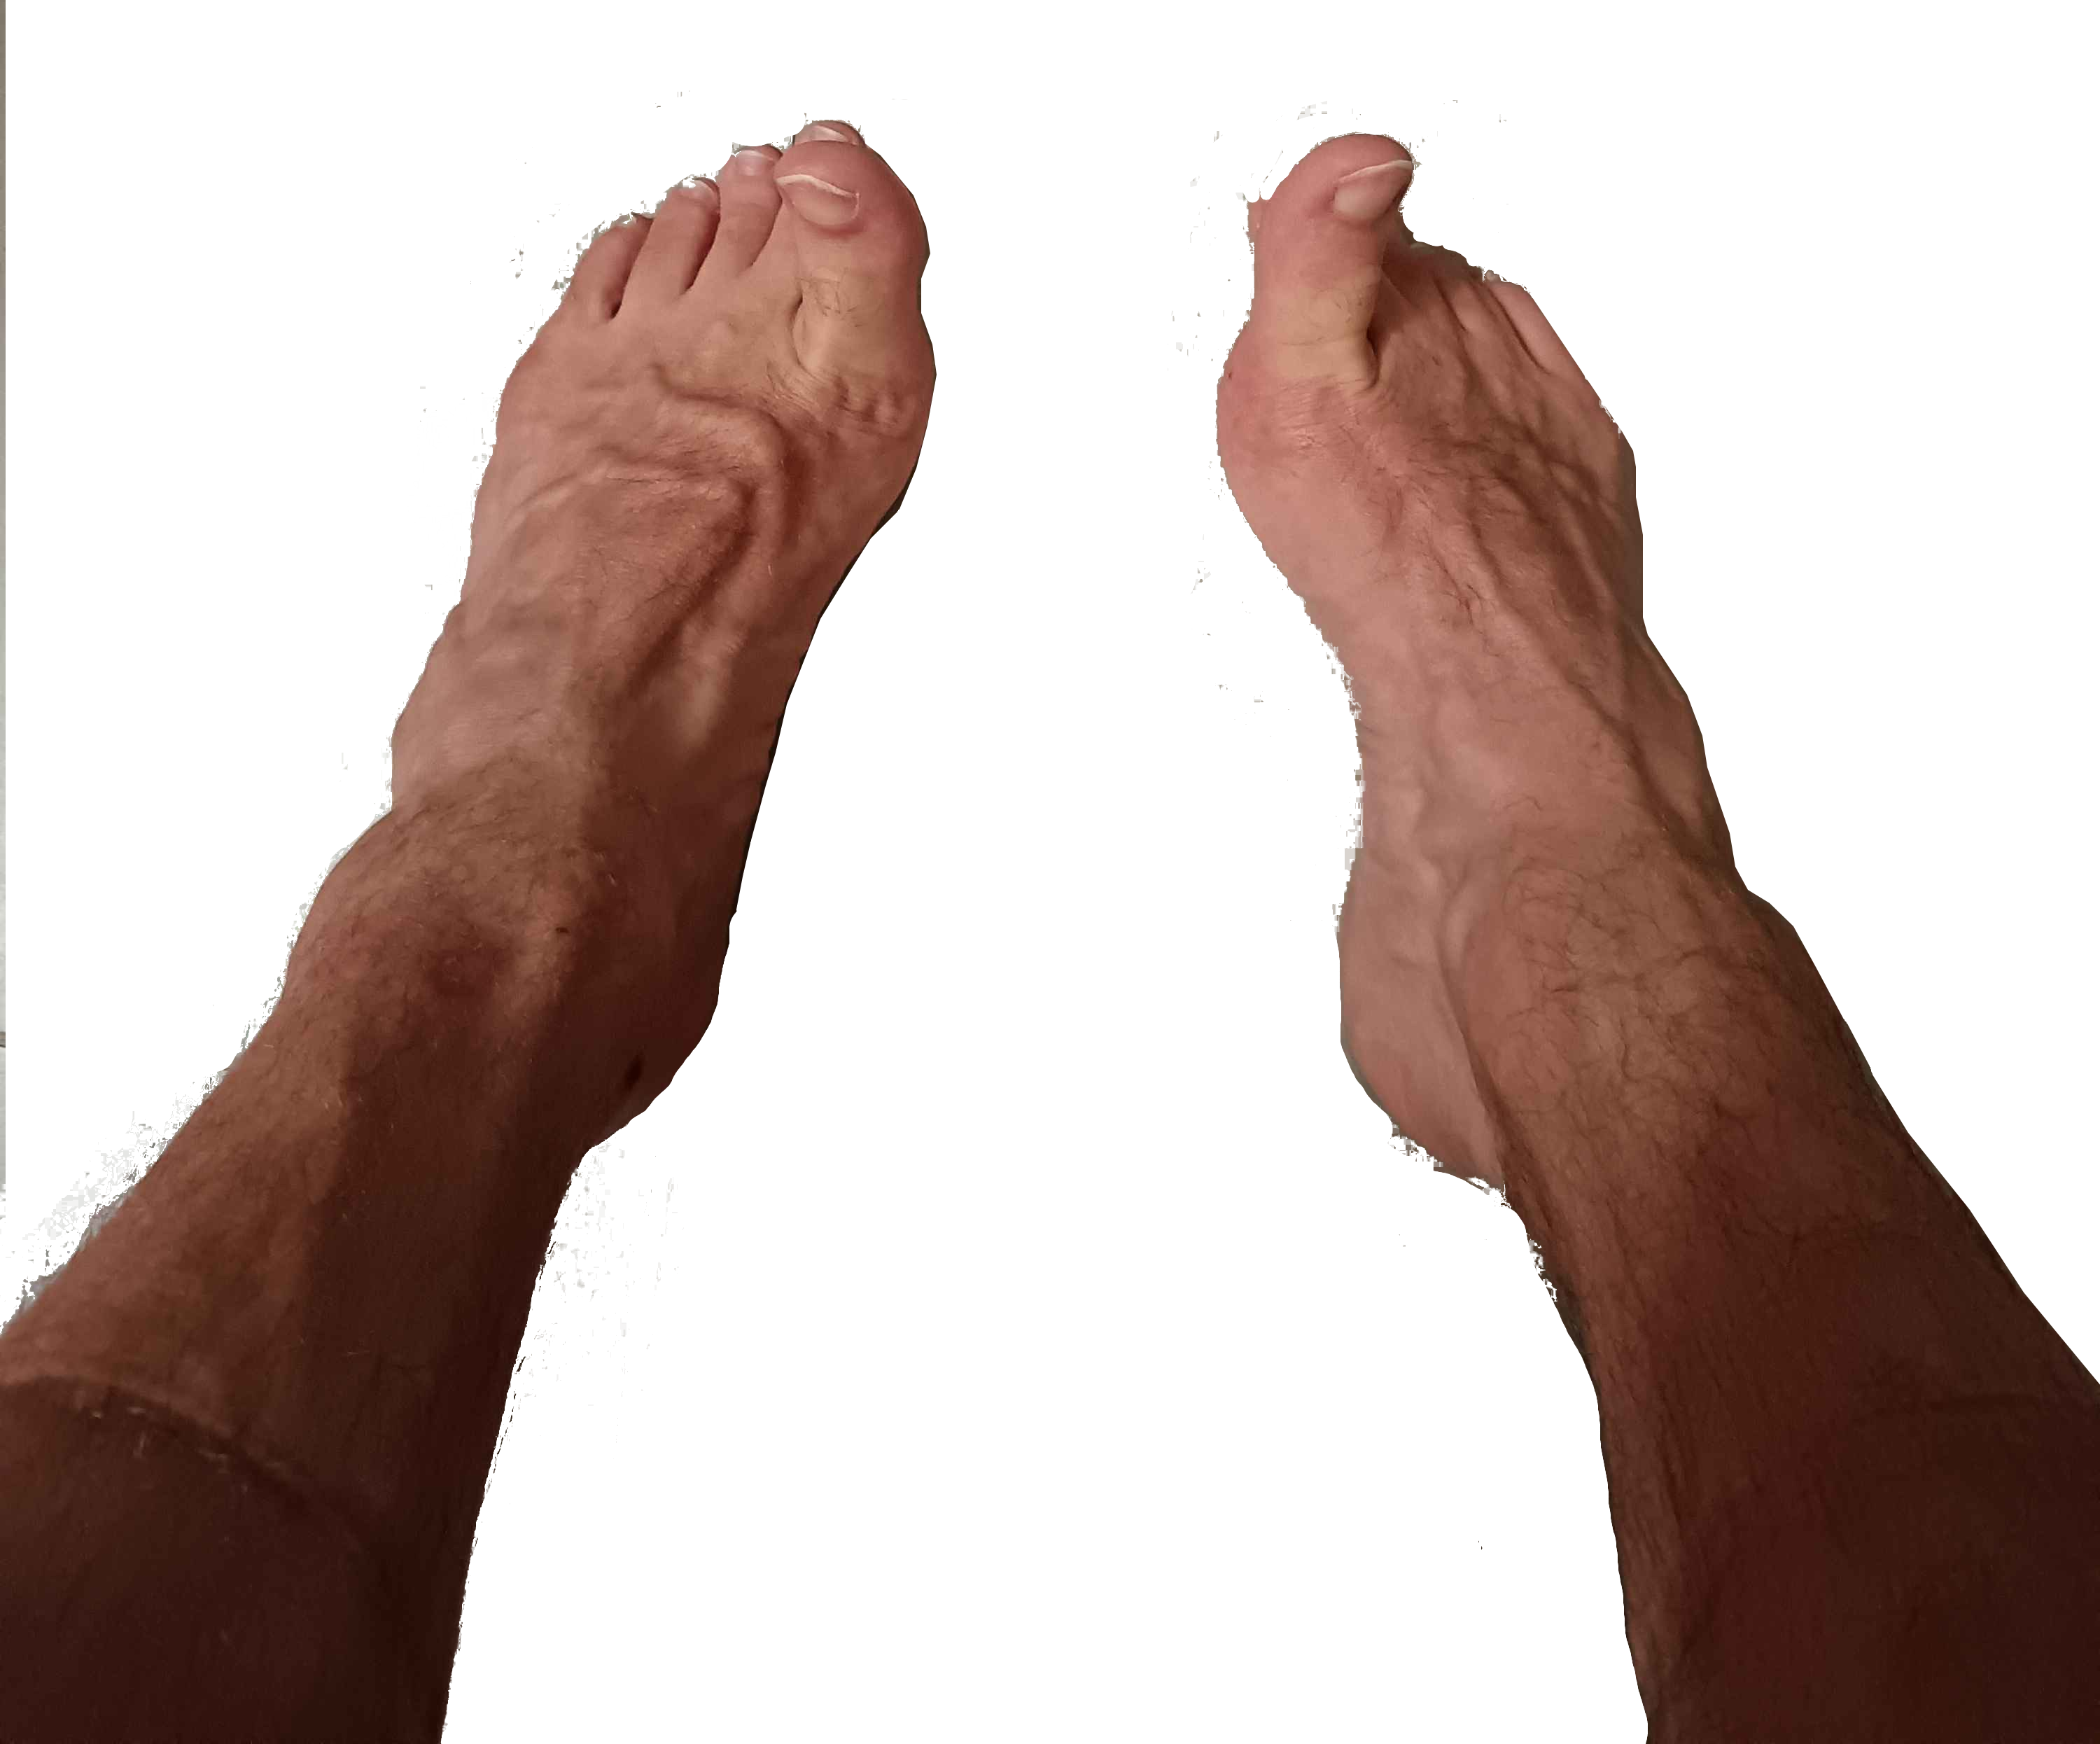
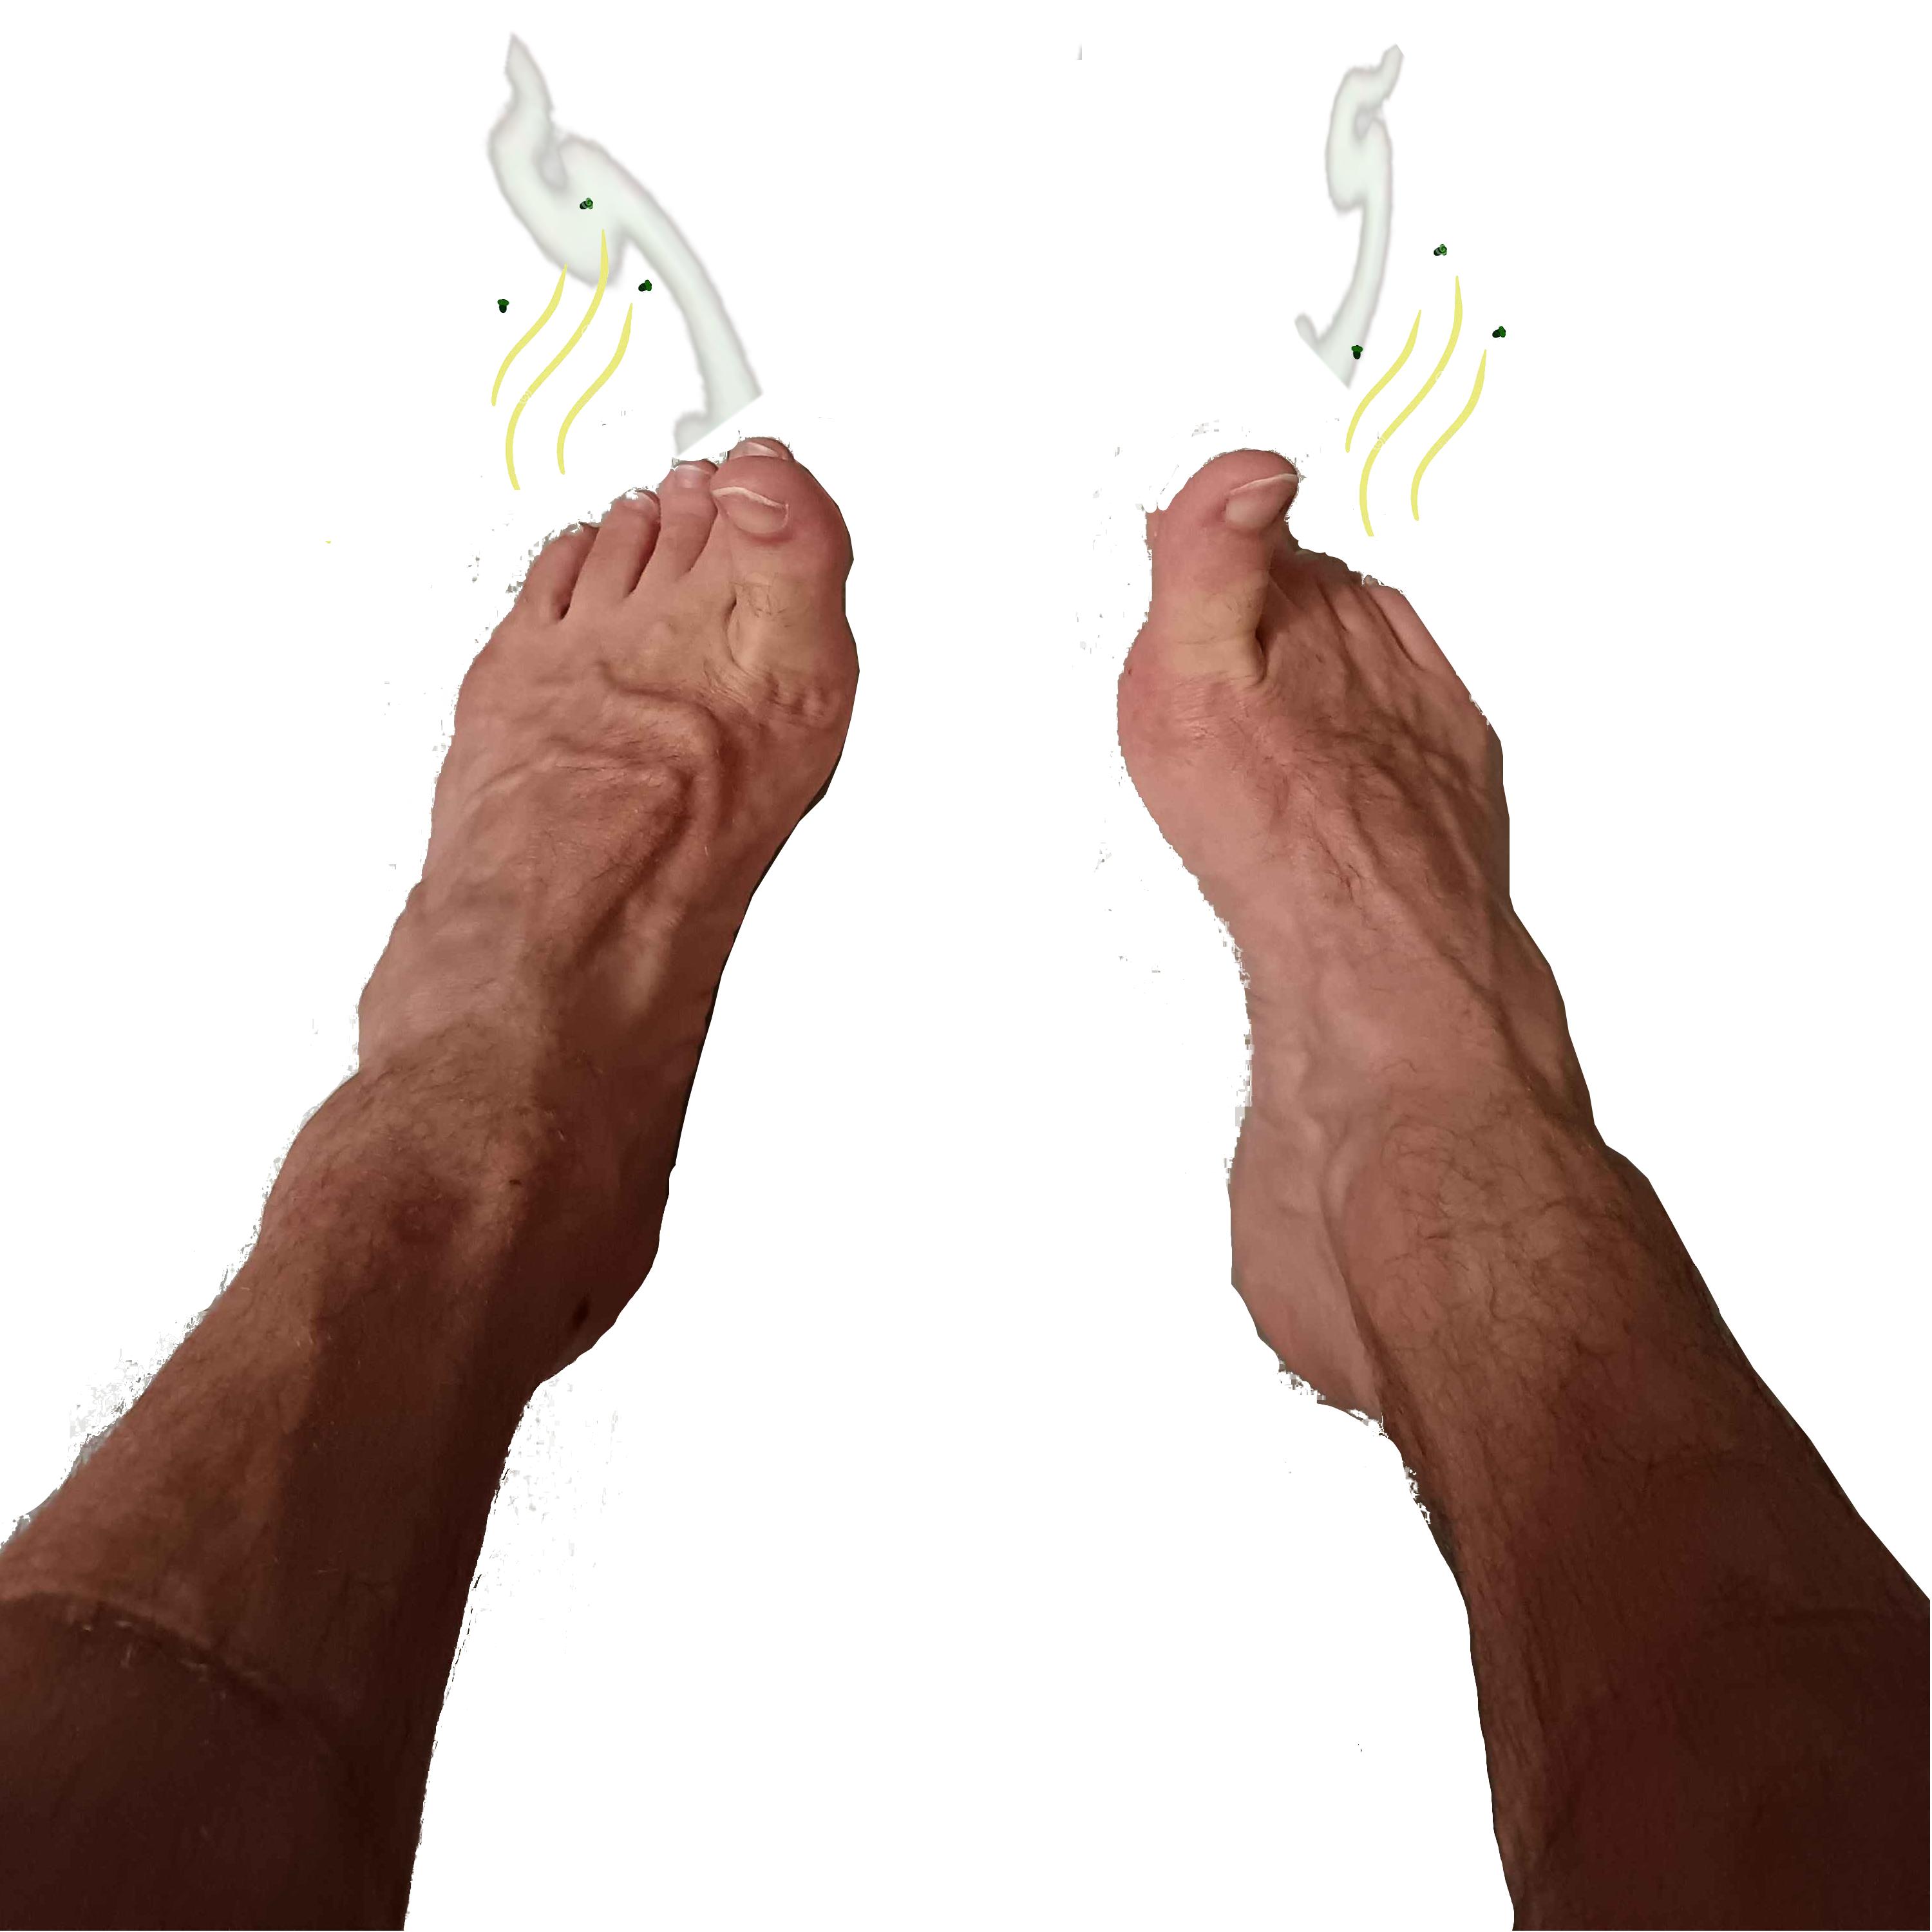
Split into HTML/CSS/JS, add responsive layout and animated characters
- Separate styles.css and script.js from index.html
- Responsive title/subtitle with clamp(), top/bottom anchoring
- Cycling subtitles with fade+slide animation
- Add mikey (swaying), spongebob (floating), and pulsing oflink button
- Drop shadows on title, subtitle, and oflink
- Remove stray test.txt

Changed region(s): [[0.0, 0.0, 0.465, 0.8964], [0.558, 0.0309, 1.0, 1.0], [0.186, 0.9892, 0.217, 1.0]]

diff --git a/styles.css b/styles.css
@@ -1,0 +1,183 @@
+* { margin: 0; padding: 0; box-sizing: border-box; }
+
+@font-face {
+  font-family: "Bequta";
+  src: url("fonts/Bequta-1j5pv.otf") format("opentype");
+  font-weight: normal;
+  font-style: normal;
+  font-display: swap;
+}
+
+body {
+  min-height: 100vh;
+  display: flex;
+  align-items: flex-start;   /* anchor the card (title) to the top */
+  justify-content: center;
+  padding: 1.5rem;          /* keeps content off the screen edges on mobile */
+  overflow-x: hidden;       /* belt-and-braces: no sideways scroll */
+  font-family: -apple-system, BlinkMacSystemFont, "Segoe UI", Roboto, sans-serif;
+  color: #fff;
+
+  /* === BACKGROUND IMAGE ===
+     Swap the url() below for your own image, e.g. url("images/background.jpg").
+     The linear-gradient on top darkens the photo so text stays readable.
+     The gradient also acts as a fallback if the image is missing. */
+  background:
+    linear-gradient(rgba(0, 0, 0, 0.45), rgba(0, 0, 0, 0.45)),
+    url("https://images.unsplash.com/photo-1506744038136-46273834b3fb?auto=format&fit=crop&w=1920&q=80")
+    center / cover no-repeat fixed;
+}
+
+.card {
+  position: relative;
+  z-index: 1;           /* keep the text above the feet image */
+  text-align: center;
+  padding: 2rem;
+}
+
+h1 {
+  font-family: "Bequta", sans-serif;
+  font-size: clamp(1.75rem, 7vw, 5rem);   /* min, fluid, max */
+  font-weight: 700;
+  letter-spacing: 0.1em;
+  overflow-wrap: break-word;   /* lets the title wrap instead of overflowing */
+  max-width: 100%;
+  height: 15em;
+  text-shadow: 0 4px 12px rgba(0, 0, 0, 0.75);
+}
+
+p {
+  position: fixed;            /* anchor the subtitle to the bottom */
+  bottom: 15rem;
+  left: 50%;
+  transform: translateX(-50%);
+  z-index: 1;                 /* keep it above the feet image */
+  width: 100%;
+  text-align: center;
+  padding: 0 1.5rem;          /* breathing room on narrow screens */
+  font-family: "Bequta", sans-serif;
+  letter-spacing: 0.08em;
+  font-size: clamp(1rem, 3vw, 1.5rem);   /* min, fluid, max */
+  opacity: 0.9;
+  text-shadow: 0 5px 10px rgba(0, 0, 0, 0.75);
+}
+
+.feet {
+  position: fixed;
+  top: 50%;
+  left: 50%;
+  transform: translate(-50%, -50%);
+  width: 70vmin;        /* scales off the SHORTER screen side, so it stays */
+  height: 70vmin;       /* the same proportion on phones and desktops alike */
+  object-fit: contain;  /* keep aspect ratio inside that box */
+  z-index: 0;           /* sits behind the text; transparency shows the bg */
+  pointer-events: none;
+}
+
+/* mikey: anchored just to the LEFT of the (centered) feet image.
+   The feet is 70vmin wide and centered, so its left edge sits 35vmin from
+   the screen centre. We push mikey's right edge to that point, plus a 2vmin
+   gap -> translateX(calc(-100% - 37vmin)). Both images are fixed, so they
+   stay locked together at any screen size. */
+.mikey {
+  position: fixed;
+  top: 50%;
+  left: 50%;
+  transform: translate(calc(-37vmin), -150%);   /* positioning only */
+  z-index: 0;
+  pointer-events: none;
+}
+.mikey img {
+  display: block;
+  height: 15vmin;       /* tweak to make mikey bigger / smaller */
+  width: auto;          /* keep its aspect ratio */
+  object-fit: contain;
+  transform-origin: 50% 0;                       /* swing from the top */
+  animation: mikey-sway 3s ease-in-out infinite; /* rotates -15deg <-> +15deg */
+}
+@keyframes mikey-sway {
+  0%, 100% { transform: rotate(-15deg); }
+  50%      { transform: rotate(15deg);  }
+}
+@media (prefers-reduced-motion: reduce) {
+  .mikey img { animation: none; }
+}
+
+.bob {
+  position: fixed;
+  top: 50%;
+  left: 50%;
+  transform: translate(calc(18vmin), -100%);   /* positioning only */
+  z-index: 0;
+  pointer-events: none;
+}
+.bob img {
+  display: block;
+  height: 13vmin;       /* tweak to make spongebob bigger / smaller */
+  width: auto;          /* keep its aspect ratio */
+  object-fit: contain;
+  animation: bob-float 2.5s ease-in-out infinite;   /* gentle up & down */
+}
+@keyframes bob-float {
+  0%, 100% { transform: translateY(-12%); }
+  50%      { transform: translateY(12%);  }
+}
+@media (prefers-reduced-motion: reduce) {
+  .bob img { animation: none; }
+}
+
+/* clickable link anchored to the bottom-right corner */
+.oflink {
+  position: fixed;
+  bottom: 1.5rem;
+  right: 1.5rem;
+  z-index: 2;                /* above the feet image and the subtitle */
+  line-height: 0;            /* removes the inline-image gap under the img */
+  transition: transform 0.2s ease, filter 0.2s ease;
+}
+@keyframes of-pulse {
+  0%, 100% { transform: scale(1);   }   /* +0%  */
+  50%      { transform: scale(1.2); }   /* +20% */
+}
+.oflink img {
+  width: clamp(80px, 12vw, 160px);   /* responsive size */
+  height: auto;
+  display: block;
+  filter: drop-shadow(0 4px 10px rgba(0, 0, 0, 0.6));
+  animation: of-pulse 2.5s ease-in-out infinite;   /* gentle grow/shrink loop */
+}
+@media (prefers-reduced-motion: reduce) {
+  .oflink img { animation: none; }
+}
+.oflink:hover img {
+  filter: drop-shadow(0 6px 14px rgba(0, 0, 0, 0.7)) brightness(1.1);
+}
+.oflink:hover {
+  transform: scale(1.08);
+}
+
+/* small-screen tweaks: tighter letter-spacing so the title fits comfortably */
+@media (max-width: 480px) {
+  h1 { letter-spacing: 0.04em; }
+  .card { padding: 1rem; }
+}
+
+.emoji {
+  height: 1em;
+  width: auto;
+  vertical-align: -0.15em;   /* nudges it to sit on the text baseline */
+}
+
+/* cycling subtitle: the inner span fades + slides on each swap */
+.sub-text {
+  display: inline-block;
+  transition: opacity 0.5s ease, transform 0.5s ease;
+}
+.sub-text.is-leaving {       /* applied just before the text is swapped */
+  opacity: 0;
+  transform: translateY(20px);
+}
+@media (prefers-reduced-motion: reduce) {
+  .sub-text { transition: opacity 0.3s ease; }
+  .sub-text.is-leaving { transform: none; }   /* fade only, no motion */
+}

diff --git a/index.html b/index.html
@@ -4,83 +4,20 @@
   <meta charset="UTF-8">
   <meta name="viewport" content="width=device-width, initial-scale=1.0">
   <title>- R A D U F E E T -</title>
-  <style>
-    * { margin: 0; padding: 0; box-sizing: border-box; }
-
-    @font-face {
-      font-family: "Bequta";
-      src: url("fonts/Bequta-1j5pv.otf") format("opentype");
-      font-weight: normal;
-      font-style: normal;
-      font-display: swap;
-    }
-
-    body {
-      min-height: 100vh;
-      display: flex;
-      align-items: center-top;
-      justify-content: center;
-      font-family: -apple-system, BlinkMacSystemFont, "Segoe UI", Roboto, sans-serif;
-      color: #fff;
-
-      /* === BACKGROUND IMAGE ===
-         Swap the url() below for your own image, e.g. url("images/background.jpg").
-         The linear-gradient on top darkens the photo so text stays readable.
-         The gradient also acts as a fallback if the image is missing. */
-      background:
-        linear-gradient(rgba(0, 0, 0, 0.45), rgba(0, 0, 0, 0.45)),
-        url("https://images.unsplash.com/photo-1506744038136-46273834b3fb?auto=format&fit=crop&w=1920&q=80")
-        center / cover no-repeat fixed;
-    }
-
-    .card {
-      position: relative;
-      z-index: 1;           /* keep the text above the feet image */
-      text-align: center;
-      padding: 2rem;
-    }
-
-    h1 {
-      font-family: "Bequta", sans-serif;
-      font-size: clamp(2.5rem, 8vw, 5rem);
-      font-weight: 700;
-      letter-spacing: 0.15em;
-      text-shadow: 0 2px 20px rgba(0, 0, 0, 0.5);
-    }
-
-    p {
-      font-family: "Bequta", sans-serif;
-      letter-spacing: 0.08em;
-      margin-top: 1rem;
-      font-size: clamp(1rem, 3vw, 1.5rem);
-      opacity: 0.9;
-      text-shadow: 0 1px 10px rgba(0, 0, 0, 0.5);
-    }
-
-    .feet {
-      position: fixed;
-      top: 50%;
-      left: 50%;
-      transform: translate(-50%, -50%);
-      width: 50vw;          /* ~half the screen width  */
-      height: 50vh;         /* ~half the screen height */
-      object-fit: contain;  /* keep aspect ratio inside that box */
-      z-index: 0;           /* sits behind the text; transparency shows the bg */
-      pointer-events: none;
-    }
-
-    .emoji {
-      height: 1em;
-      width: auto;
-      vertical-align: -0.15em;   /* nudges it to sit on the text baseline */
-    }
-  </style>
+  <link rel="stylesheet" href="styles.css">
 </head>
 <body>
   <img src="images/feet.png" alt="" class="feet">
+  <span class="mikey"><img src="images/mikey.png" alt=""></span>
+  <span class="bob"><img src="images/spongebob.png" alt=""></span>
+  <a class="oflink" href="https://www.youtube.com/watch?v=dQw4w9WgXcQ" target="_blank" rel="noopener">
+    <img src="images/oflink.png" alt="OnlyFans link">
+  </a>
   <div class="card">
     <h1>👣 R A D U F E E T 👣</h1>
-    <p>Taste the radufian wilderness <img src="images/mama.png" alt="" class="emoji"></p>
+    <p><span class="sub-text">Onlyfans bientot disponible !</span></p>
   </div>
+
+  <script src="script.js"></script>
 </body>
 </html>

diff --git a/script.js b/script.js
@@ -1,0 +1,20 @@
+// Edit this list to change / add subtitles. HTML is allowed (e.g. the emoji img).
+const subtitles = [
+  '"Une pilosité envoutante" - Nico',
+  '"J\'aimerai les avoir dans la bouche" -Ramor',
+  '"J\'y pense régulièrement la nuit..." -Tuchages"',
+  '"Les meilleurs dix balles de ma vie" -Ange',
+  '"Onlyfans bientot disponible !"',
+];
+
+const el = document.querySelector('.sub-text');
+let i = 0;
+
+setInterval(() => {
+  el.classList.add('is-leaving');          // fade + slide the current one out
+  setTimeout(() => {
+    i = (i + 1) % subtitles.length;
+    el.innerHTML = subtitles[i];
+    el.classList.remove('is-leaving');     // fade + slide the new one in
+  }, 500);                                  // must match the CSS transition duration
+}, 5000);                                   // total time each subtitle is shown